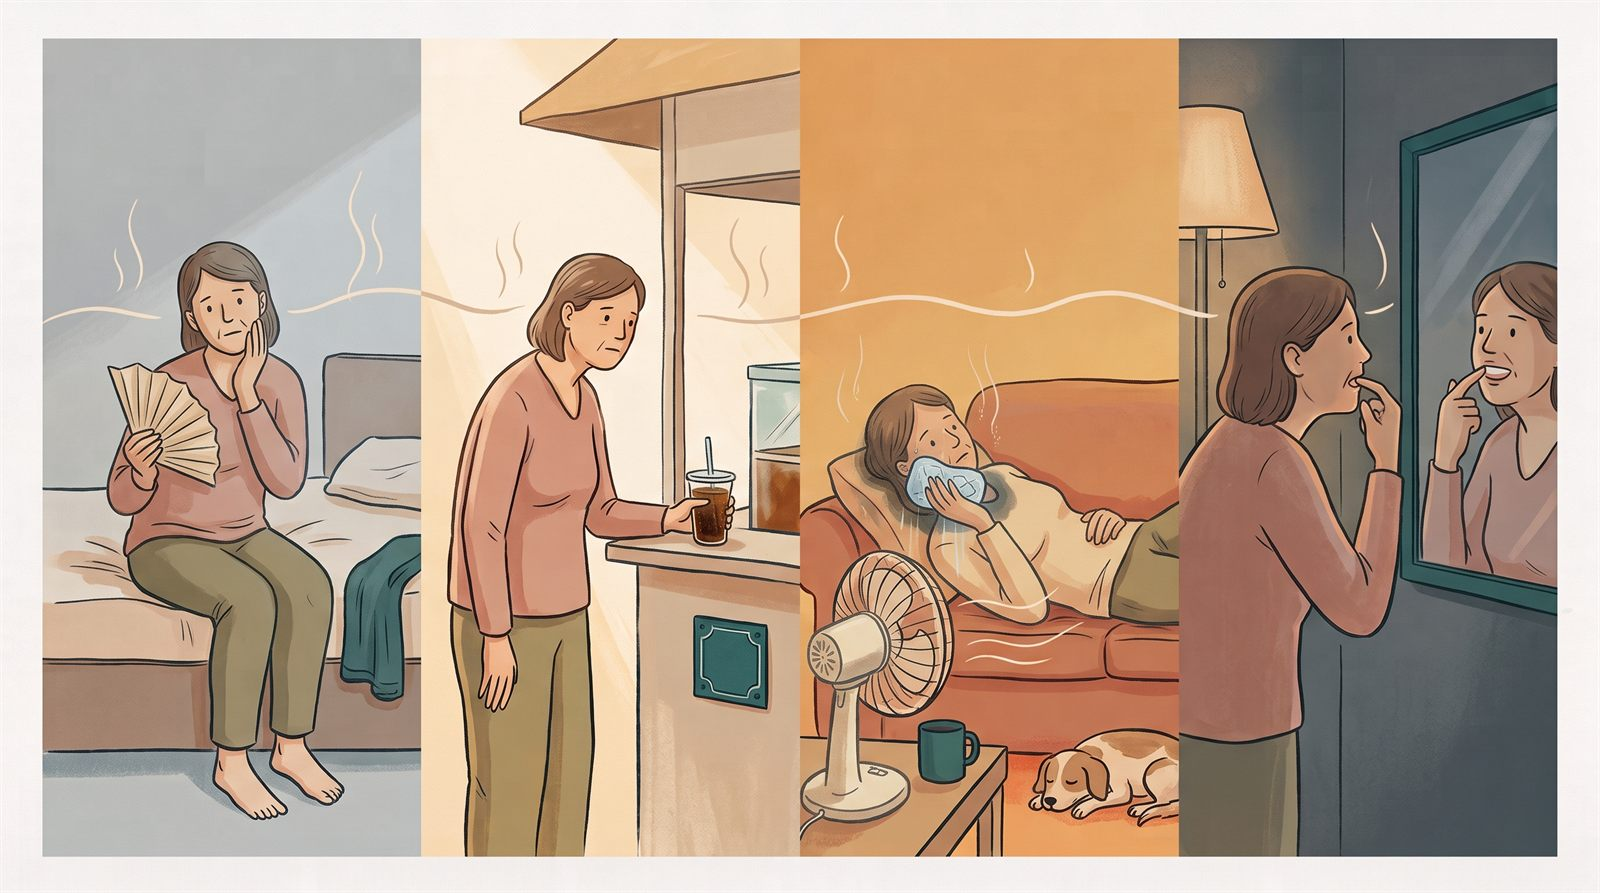
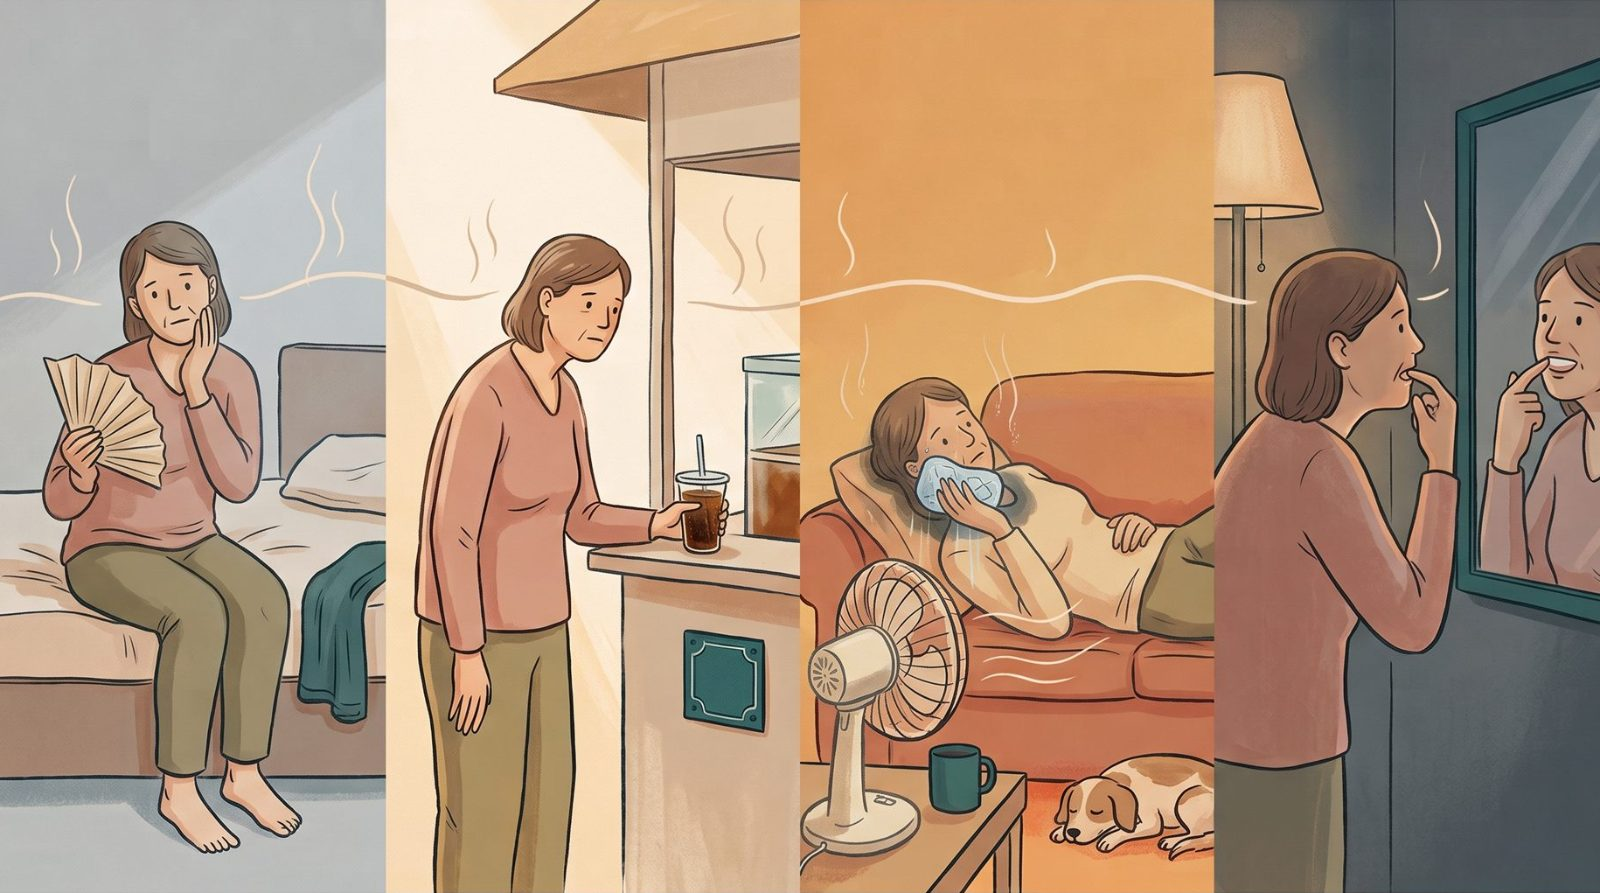
牙齦流血那張 HERO：把烘進去的白邊裁掉
使用者：「火氣大牙齦流血的圖有白邊 處理掉不要有白邊」。

2000 寬的原檔四邊帶著一圈近白的邊（逐列／逐行量亮度：平均 244、標準差 1~2）：
左右各 53px、上 48、下 45。站上卡片與 .post-hero 都是圓角滿版，
那圈白邊看起來就是圖自己畫了一個框。

裁法：從四邊往內走到標準差 >= 12（＝有內容）的那一列，再各縮 1px 避開
白框與內容之間的 JPEG 振鈴，得到內容框 x 54~1945、y 49~1069（1892×1021，
比例 1.853）。只准往內裁、不准變形 —— 比目標 1.792 寬，所以左右各再收 31px，
實際裁 (85, 49, 1830, 1021)，再縮放成三個原本的尺寸：

  2000×1116 / 1600×893 / 800×447   ← 和改動前完全相同

所以 width/height 屬性、og:image:width/height、sizes 三段、
.card-thumb 的 aspect-ratio 全都不必動，HTML 一個字都沒改。
JPEG 品質 82（檔案 57／181／258KB，改動前 63／184／280KB）。

驗過：三個尺寸的最外圈每一列／每一行標準差都在 22~49，沒有殘留的平坦白邊。
六張裡只有這一張有白框；〈擴弓〉左 27px 是浴室亮牆、〈刷牙〉上 111px 是
天花板與嵌燈，兩者都只有一側，不是白框，沒有動。

只換圖檔、沒動 post-meta 與 <main>，那一篇的「最後更新」維持 2026-04-15。

Claude-Session: https://claude.ai/code/session_01PCD6ywpc8zawpDLf9VXxmF

diff --git a/ILLUSTRATION.md b/ILLUSTRATION.md
@@ -592,6 +592,26 @@
    文章頁 `.post-hero` 的 `alt` 放**完整描述**。
 5. 提案頁的產生器 `tools/hero-photo-preview.mjs` 已於 2026-08-16 隨定案刪除。
    下一批要做提案頁的話，用 `git show ba16125:tools/hero-photo-preview.mjs` 拿回來改。
+6. ⚠⚠ **存檔之前先確認四邊沒有烘進去的白框**（2026-08-16 踩過）。
+   〈牙齦流血〉那張生出來時四邊帶著一圈近白的邊（實測 L 平均 244、標準差 1~2，
+   左右各 53px、上 48／下 45，在 2000 寬的原檔上），上線後使用者一眼看到
+   「圖有白邊」—— 站上的卡片與 `.post-hero` 都是圓角滿版，白邊會變成圖裡
+   自己畫了一個框。**六張裡只有這一張有**，所以不能靠印象，要量。
+   > **量法**（容器裡沒有 PIL／ImageMagick，用 Chromium 的 canvas 讀像素）：
+   > 逐列／逐行算亮度的**標準差**，`< 12` 就是「平的」＝白框那幾列；
+   > 從四邊往內走到第一列標準差跳起來的位置，那就是內容的邊。
+   > ⚠ **不要用「是不是純白 255」判斷** —— 那圈邊實測是 244 帶 JPEG 雜訊，
+   >   用門檻比顏色會判成「第 0 列就不是白的」，整個量錯。
+   > ⚠ 找到內容框之後**四邊各再往內縮 1px**，避開白框與內容之間的 JPEG 振鈴。
+   > **裁法**：只准往內裁、不准變形 —— 內容框的比例（那次是 1.853）比目標
+   > 2000×1116（1.792）寬，就左右各再收一點收到同比例，再縮放成
+   > 2000×1116／1600×893／800×447。三個尺寸維持原本的值，
+   > 所以 `width`／`height` 屬性、`og:image:width/height`、`sizes` 全都不必改。
+   > ⚠ 只換圖檔、不動 `post-meta` 與 `<main>`，那一篇的「最後更新」不會跳
+   >   （雜湊不涵蓋圖檔內容）—— 這是對的，修圖不是內容更新。
+   > ⚠ 順帶量到的兩個**不是**白框、不要去裁：〈擴弓〉左邊 27px（浴室的亮牆，
+   >   只有一側有）、〈刷牙〉上面 111px（天花板與嵌燈）。白框的特徵是**四邊都有**
+   >   而且亮度一致。
 
 ### 寫提示詞學到的事（2026-08-16，前四篇打下來的）
 
